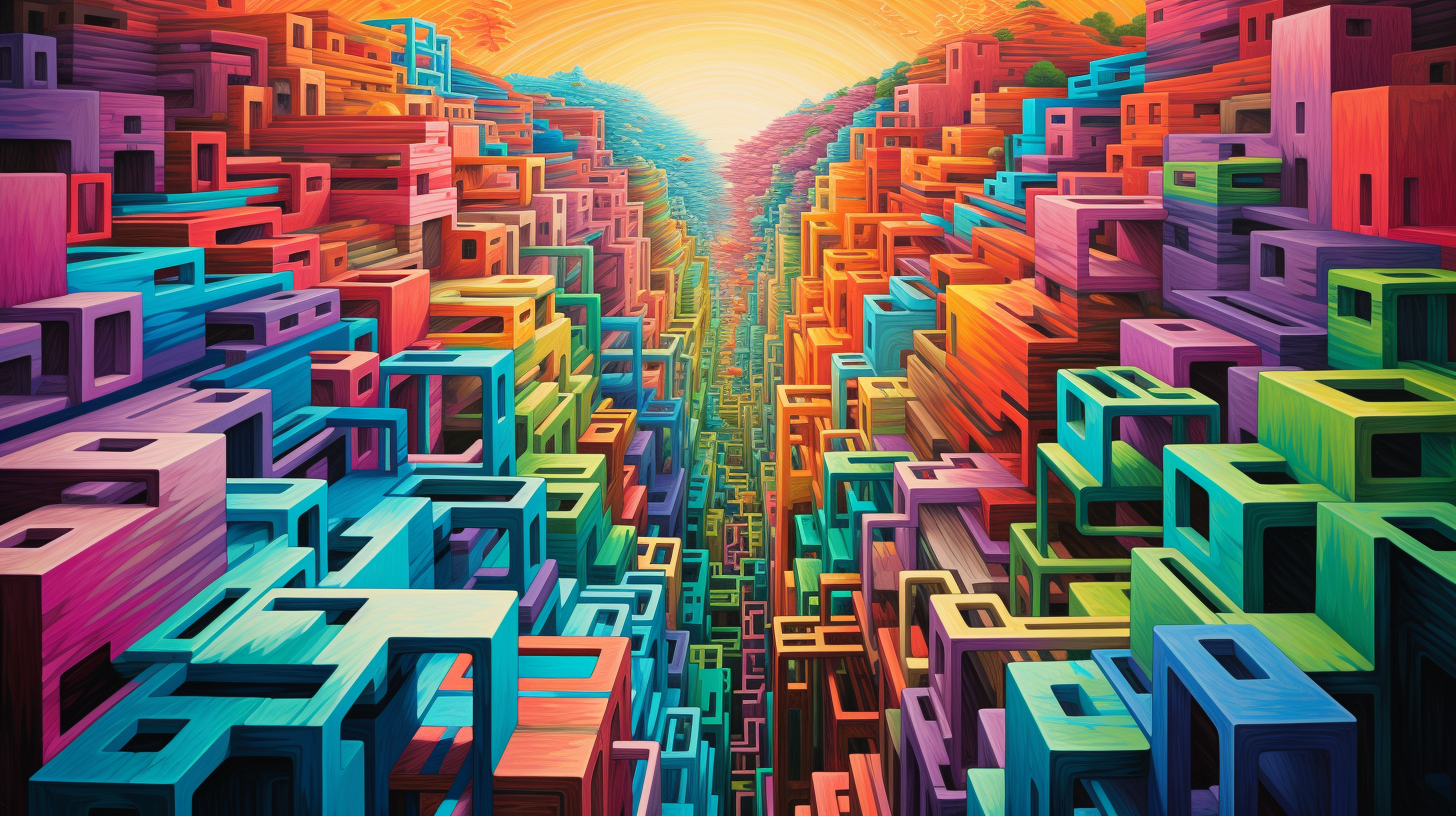
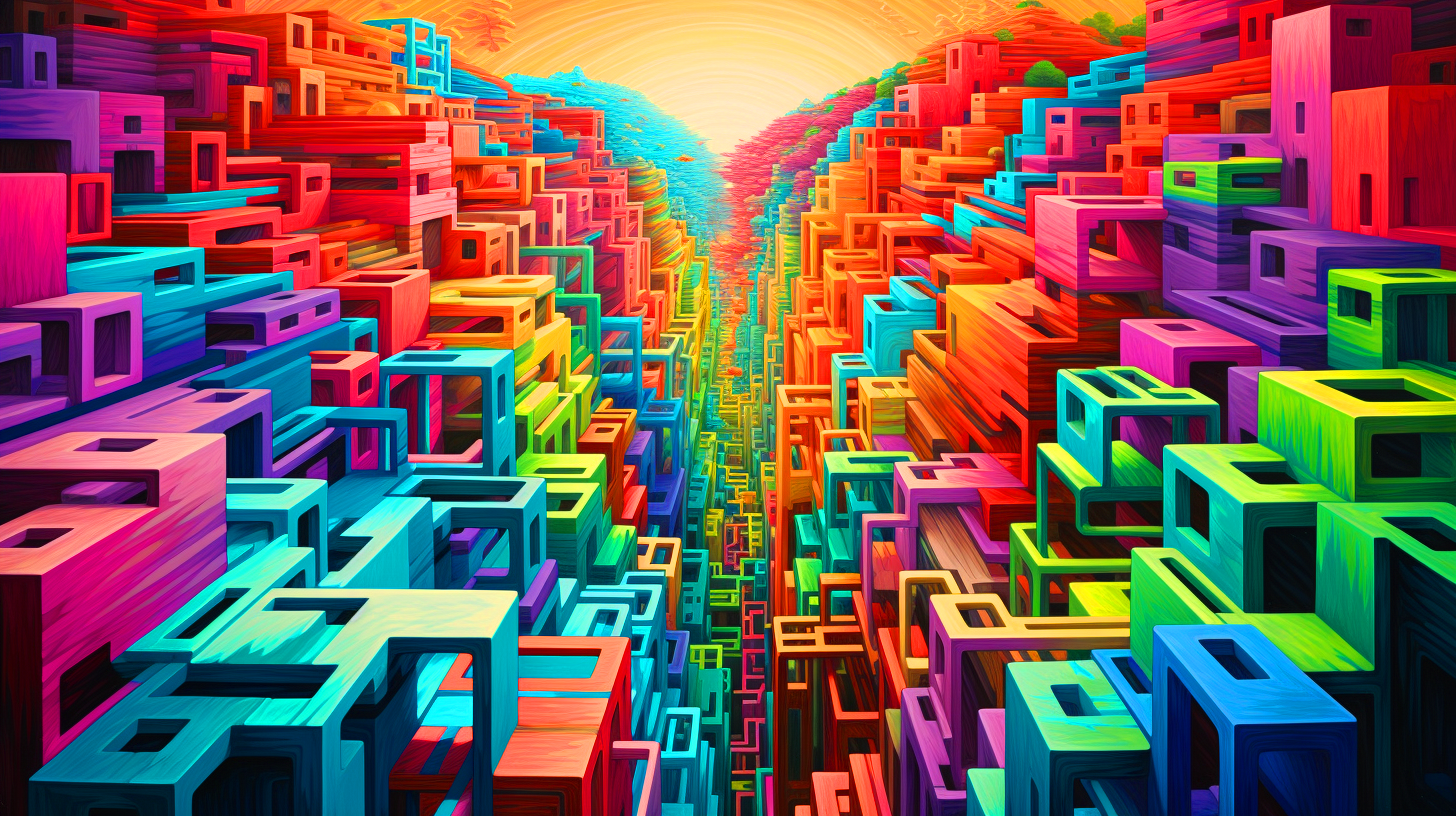
Added a background image for the gradient generator section.

diff --git a/src/routes/css/gradient-generator/+page.svelte b/src/routes/css/gradient-generator/+page.svelte
@@ -3,3 +3,15 @@
 </script>
 
 <GradientGenerator/>
+
+<svelte:head>
+  <style>
+    body {
+      background: url(/gradient.png) no-repeat center center fixed;
+      -webkit-background-size: cover;
+      -moz-background-size: cover;
+      -o-background-size: cover;
+      background-size: cover;
+    }
+  </style>
+</svelte:head>

diff --git a/src/routes/css/+layout.svelte b/src/routes/css/+layout.svelte
@@ -30,13 +30,7 @@
   </a>
 </nav>
 
-<div class="outer">
-<div class="card">
-  <div class="card-body">
     <slot/>
-  </div>
-</div>
-</div>
 
 <style>
   .nav-link {

diff --git a/src/global.css b/src/global.css
@@ -3,7 +3,6 @@ body {
 }
 
 .container {
-  height:           100vh;
   padding-left:     2em;
   padding-right:    2em;
   background-color: #fcfcfc;
